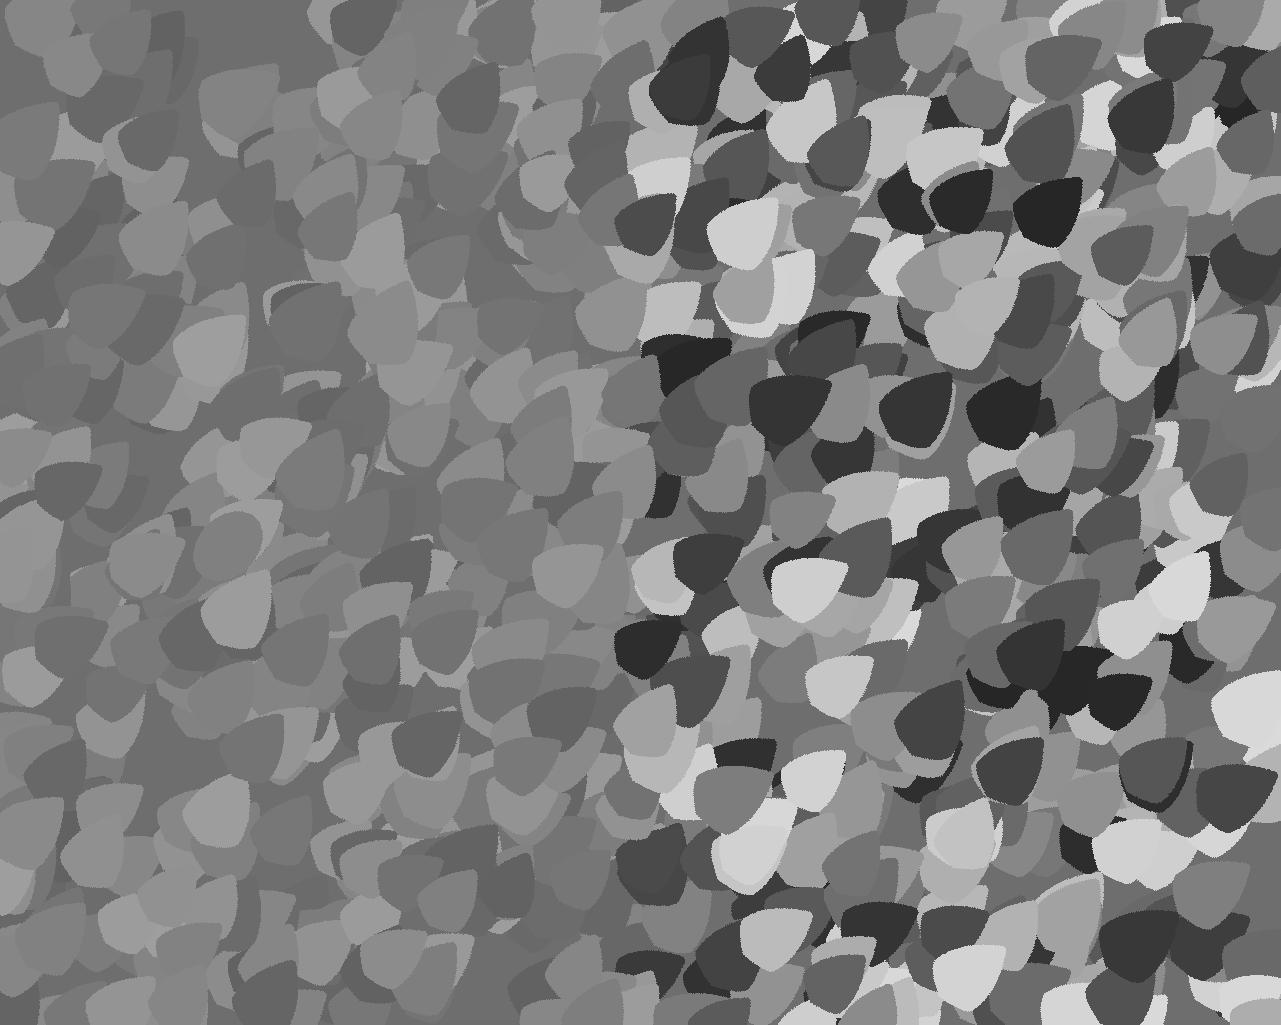
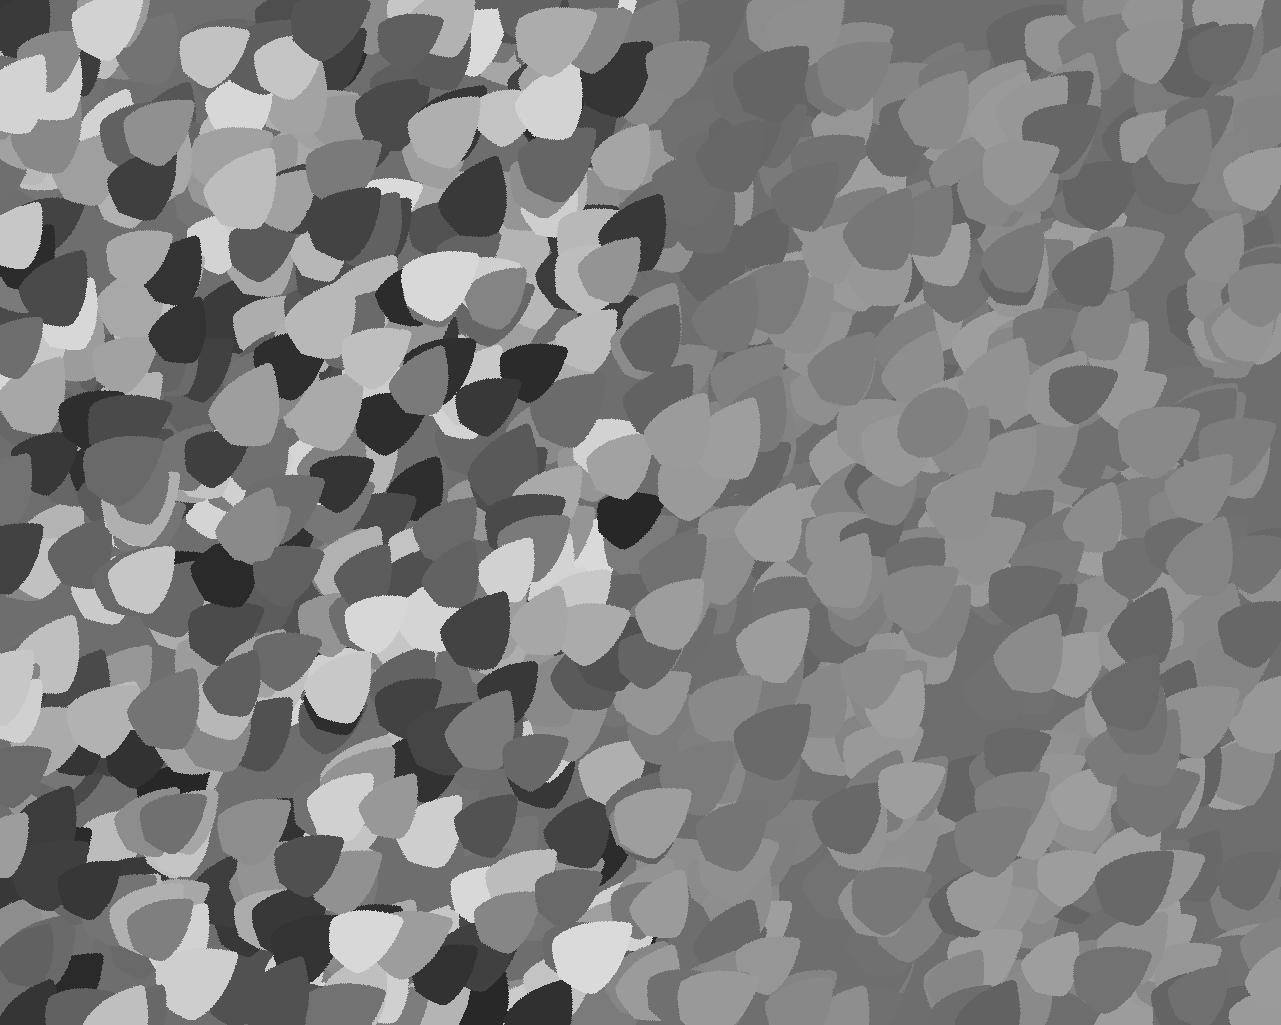
just need to set patch leaf params

diff --git a/[5] Patches/leafBackground.m b/[5] Patches/leafBackground.m
@@ -26,7 +26,7 @@ load indices
 % EXPERIMENT TYPE
 % matrices for complexity and location:
 compMat = [high,low,low,low]; % [lum,size,angle,num]
-locMat = [whole,complex,1,100,0];
+locMat = [patch,complex,1,100,0];
 
 % if locMat(1) = whole
 %   (2) = N/A
@@ -36,10 +36,11 @@ locMat = [whole,complex,1,100,0];
 %   (2) = complex side
 %   (3) = side target is on
 %   (4) = N/A
+%   (5) = N/A
 % if locMat(1) = patch
 %   (2) = patch complexity
 %   (3) = number of patches
-%   (4) = diameter of patches
+%   (4) = radius of patches
 %   (5) = target on patch logical
 
 % ----------------------------------------------------------------- %
@@ -64,16 +65,6 @@ siz = [10,20,30]; % max width deviation (pixels) from mean (target) width
 ang = [20,100,180]; % max angle deviation (degs) from target angle
 num = 500; % low complexity number of leaves
 num = [num,num*2,num*3]; % number range for complex side
-
-% ----------------------------------------------------------------- %
-
-% bodge to fix drawEllipse odd number problem, can remove when fixed
-if mod(targHeight,2)
-    targHeight = targHeight+1;
-end
-if mod(targWidth,2)
-    targWidth = targWidth+2;
-end
 
 % ----------------------------------------------------------------- %
 
@@ -105,7 +96,7 @@ for trial = 1:(size(compMat,1))
             case 2
                 patchComp = locMat(trial,2);
                 nPats = locMat(trial,3); % number of patches
-                sPats = locMat(trial,4); % radius of patches
+                patsRad = locMat(trial,4); % radius of patches
                 targOnPat = locMat(trial,5); % whether target is on a complex patch, logical
         end
     end
@@ -170,32 +161,34 @@ for trial = 1:(size(compMat,1))
             locWidthR = [splitWidth(1),splitWidth(3)];
             locHeightR = [splitHeight(1),splitHeight(3)];
             % get patch location
-            patchHeightRange = [locHeightR(1)+round((sPats/2)),locHeightR(2)-round((sPats/2))];
-            patchWidthRange = [locWidthR(1)+round((sPats/2)),locWidthR(2)-round((sPats/2))];
+            patchHeightRange = [locHeightR(1)+round(patRad),locHeightR(2)-round(patRad)];
+            patchWidthRange = [locWidthR(1)+round(patRad),locWidthR(2)-round(patRad)];
             patchLoc = [randi(patchHeightRange,1),randi(patchWidthRange,1)];
+            patchRect = [0,0,patRad*2,patRad*2];
+            patchRect = CenterRectOnPoint(patchRect,patchLoc(1),patchLoc(2));
             % generate pixel indicies within patch and outside of patch
             switch targOnPat
                 case 0
                     patLog = 0;
-                    patDisp = ones(height+(edgeBuffer*2),width+(edgeBuffer*2));
+                    patDisp = ones(height,width);
+                    sideBuffer = ones(height,edgeBuffer);
+                    topBuffer = ones(edgeBuffer,width+(edgeBuffer*2));
                 case 1
                     patLog = 1;
-                    patDisp = zeros(height+(edgeBuffer*2),width+(edgeBuffer*2));
+                    patDisp = zeros(height,width);
+                    sideBuffer = zeros(height,edgeBuffer);
+                    topBuffer = zeros(edgeBuffer,width+(edgeBuffer*2));
             end
-            [outLog,patchMat] = drawEllipse(sPats,sPats,patLog,0);
-            
-            
-            % put target on or off patch
-            
-            
-            
-            
-            targHeightRange = [locHeightR(1)+round((targHeight/2)),locHeightR(2)-round((targHeight/2))];
-            targWidthRange = [locWidthR(1)+round((targWidth/2)),locWidthR(2)-round((targWidth/2))];
-            targLoc = [randi(targHeightRange,1),randi(targWidthRange,1)];
+            [outLog,patchMat] = drawEllipse(patRad,patRad,patLog,0);
+            patDisp(patchRect(1):patchRect(3),patchRect(2):patchRect(4)) = patchMat;
+            patDisp = [sideBuffer,patDisp,sideBuffer];
+            patDisp = [topBuffer;patDisp;topBuffer];
+            % put target in random location on or off patch
+            [rows,cols,vals] = find(patDisp==1); % get all co-ordinates where patDisp = 1
+            targLocInd = randi(size(rows,1),1); % choose random centre co-ordinate
+            targLoc = [rows(targLocInd),cols(targLocInd)];
             targRect = [0,0,targWidth,targHeight];
             targRect = CenterRectOnPoint(targRect,targLoc(1),targLoc(2));
-            
     end
     
     
@@ -209,7 +202,7 @@ for trial = 1:(size(compMat,1))
         for i = 1:totLeaves
             % define leaf location and specs
             switch SOP
-                case 0
+                case whole
                     %location
                     leafLoc = [randi(locHeightR,1),randi(locWidthR,1)];
                     % define leaf paramaters within ranges
@@ -221,7 +214,7 @@ for trial = 1:(size(compMat,1))
                     lHeights = [round(lHeight/2),round(lHeight/2)];
                     lPeak = round(lWidth*peakDistance);
                     lPeaks = [lPeak,lPeak];
-                case 1
+                case side
                     switch drawingSide(i)
                         case simple % draw on simple side
                             leafLoc = [randi(hSimpRange,1),randi(wSimpRange,1)];
@@ -246,8 +239,10 @@ for trial = 1:(size(compMat,1))
                             lPeak = round(lWidth*peakDistance);
                             lPeaks = [lPeak,lPeak];
                     end
-                case 2
-                    
+                case patch
+                    % GENERATE RANDOM LEAF LOCATION
+                    % IF COMPLEX, SET PARAMETERS
+                    % IF SIMPLE, SET PARAMETERS
             end
             % draw leaf based on parameters
             leafMat = drawLeaf(lType,lLum,lAngle,lWidth,lHeights,lPeaks);
@@ -267,7 +262,7 @@ for trial = 1:(size(compMat,1))
         %targLum = 1;
         
         % draw and paste in target
-        [baseLum,targMat] = drawEllipse(targHeight,targWidth,targLum,targAngle);
+        [baseLum,targMat] = drawEllipse(targHeight/2,targWidth/2,targLum,targAngle);
         for pixCol = 1:size(targMat,1)
             for pixRow = 1:size(targMat,2)
                 if targMat(pixCol,pixRow) == targLum

diff --git a/[5] Patches/drawEllipse.m b/[5] Patches/drawEllipse.m
@@ -1,27 +1,28 @@
 % funnction to draw an ellipse
 
 % INPUTS:
-% height = y length of ellipse
-% width = x length of ellipse
+% heightR = y radius of ellipse
+% widthR = x radius of ellipse
 % lum = luminance value
 
 % OUTPUTS:
 % ellipseMat = pixel matrix of an ellipse
 % 1s indicate you should draw, 0s leave blank
 
-function [baseLum,ellipseMat] = drawEllipse(height,width,luminance,angle)
+function [baseLum,ellipseMat] = drawEllipse(radY,radX,luminance,angle)
 
 format long g
 
 % ----------------------------------------------------------------- %
 
 % GET CO-ORDINATES OF ARC
-
-coords = zeros(width+1,2);
-radY = height/2;
-radX = width/2;
-center = 0+radX;
-for i = 1:width+1
+radX = round(radX);
+radY = round(radY);
+widthR = (radX*2)+1; % +1 for centre
+heightR = (radY*2)+1; % +1 for centre
+coords = zeros(widthR,2);
+center = radX+1; % +1 for centre
+for i = 1:widthR
     x = center-radX-1+i;
     y = sqrt(((radY)^2)*(1-((((x-center)^2))/(radX^2))));
     coords(i,:) = [x,y];
@@ -33,21 +34,22 @@ coords = round(coords);
 % MAKE ELLIPSE TEXTURE MATRIX
 
 %create pixel matrix
-if luminance == 0; % if ellipse luminance is 0
+if luminance == 0 % if ellipse luminance is 0
     baseLum = 1;
-    ellipseMat = ones(radY,width+1); % set background as 1
+    ellipseMat = ones(radY,widthR); % set background as 1
 else % otherwise set background as 0
     baseLum = 0;
-    ellipseMat = zeros(radY,width+1);
+    ellipseMat = zeros(radY,widthR);
 end
-for i = 1:width+1
-    if coords(i,2) == 0;
+for i = 1:widthR
+    if coords(i,2) == 0
         ellipseMat(1,i) = luminance;
     else
         ellipseMat(1:coords(i,2),i) = luminance;
     end
 end
-ellipseMat = [flip(ellipseMat,1);ellipseMat];
+ellipseMatPlus = [zeros(1,size(ellipseMat,2))+luminance;ellipseMat];
+ellipseMat = [flip(ellipseMat,1);ellipseMatPlus];
 
 % rotate ellipse
 ellipseMat = imrotate(ellipseMat,angle,'bilinear');
